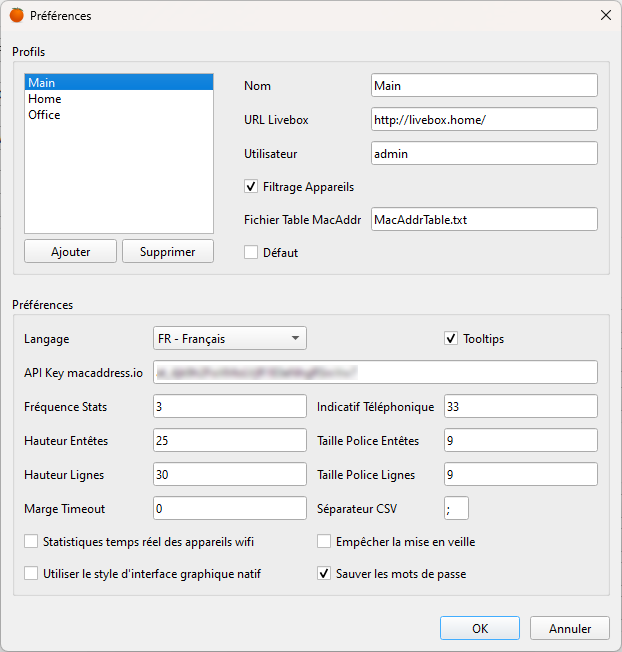
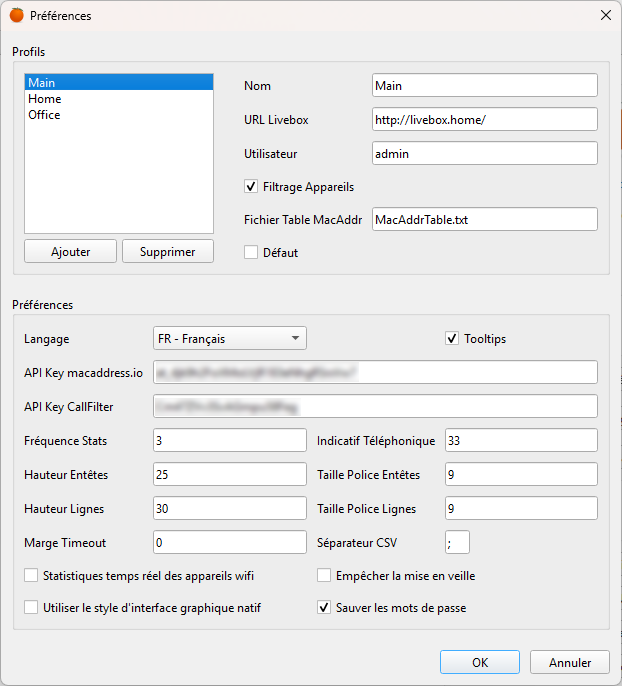
Spam phone calls management documentation

diff --git a/README.md b/README.md
@@ -198,14 +198,14 @@ Le programme créé automatiquement dans son répertoire de configuration deux f
 
 ### Le fichier Config.txt
 
-Ce fichier est géré automatiquement par l'application et il ne devrait pas être nécessaire de l'éditer. Les réglages principaux se font via le bouton `Préférences...` de l'onglet `Actions`.  
+Ce fichier JSON est géré automatiquement par l'application et il ne devrait pas être nécessaire de l'éditer. Les réglages principaux se font via le bouton `Préférences...` de l'onglet `Actions`.  
 À savoir :  
 - Les mots de passe y sont stockés cryptés grace à la clef de chiffrement du fichier `Key.txt`.
 - La clef `Repeaters` est générée automatiquement par le programme si des mots de passe différents sont utilisés pour le ou les répéteurs Wifi Orange connectés. La structure de ce paramètre est aussi au format JSON, utilise pour clef les adresses MAC des répéteurs, et référence pour chaque répéteur les valeurs 'User' & 'Password'.
 
 ### Le fichier MacAddrTable.txt
 
-Ce fichier est géré automatiquement par l'application et il ne devrait pas être nécessaire de l'éditer.
+Ce fichier JSON est géré automatiquement par l'application et il ne devrait pas être nécessaire de l'éditer.
 Les clefs correspondent aux adresses MAC des appareils et les valeurs au nom attribué.
 Tout appareil détecté dont l'adresse MAC n'est pas répertoriée sera affiché comme 'INCONNU' en rouge. Cette fonctionnalité est surtout utile pour détecter les nouveaux appareils ou des tentatives d'intrusions.
 
@@ -213,6 +213,11 @@ Pourquoi utiliser une base de noms locale alors que la Livebox stocke aussi des 
 - Parce que la Livebox "oublie" tout appareil qui ne s'est pas connecté depuis plus d'un mois.
 - Parce que parfois la Livebox perd des noms de façon impromptue pour certains appareils. C'est le cas par exemple pour le nom des répéteurs Wifi.  
 Un fichier de noms local offre la garantie de savoir si un appareil est vraiment inconnu.
+
+### Le fichier SpamCalls.txt
+
+Ce fichier JSON est géré automatiquement par l'application et il ne devrait pas être nécessaire de l'éditer.
+Il contient tous les numéros de téléphone au format international identifiés comme indésirables. Les appels provenants de ces numéros sont automatiquement marqués comme "spam" dans l'onglet `Téléphone`.
 
 
 ## Linux <a id="linux"></a>
@@ -518,7 +523,7 @@ La liste des appels téléphoniques, sur la gauche, affiche les colonnes suivant
     - ![Icone](http://p-dor.github.io/LiveboxMonitor/docs/png/Doc_Icon_Call_Out_Failed.png) : appel émis mais non abouti.
 - **Heure** : date et heure de l'appel.
 - **Numéro** : numéro de téléphone concerné.
-- **Contact** : le nom du contact déterminé par la Livebox en fonction de la liste des contacts au moment de l'appel. Si la Livebox n'a mémorisé aucun nom, alors le programme essai d'en trouver un dynamiquement à partir de la liste des contacts enregistrés par correspondance avec le numéro de téléphone.
+- **Contact** : le nom du contact déterminé par la Livebox en fonction de la liste des contacts au moment de l'appel. Si la Livebox n'a mémorisé aucun nom, alors le programme essai d'en trouver un dynamiquement à partir de la liste des contacts enregistrés par correspondance avec le numéro de téléphone. Si un numéro de téléphone indésirable a été mémorisé (voir fichier "SpamCalls.txt") il est automatiquement indiqué comme "# SPAM #".
 - **Durée** : durée de l'appel.
 
 Un **double clic** sur un appel permet de facilement créer ou éditer le contact correspondant.
@@ -526,9 +531,13 @@ Un **double clic** sur un appel permet de facilement créer ou éditer le contac
 ### Boutons
 Les boutons suivants sont proposés pour gérer la liste des appels :
 - **`Rafraîchir`** : rafraîchit la liste des appels.
-- **`Spam`** : ouvre un site web ([numeroinconnu.fr](https://www.numeroinconnu.fr/)) sur votre navigateur permettant de vérifier l'origine de l'appel sélectionné.
 - **`Supprimer`** : supprime l'appel sélectionné.
 - **`Tout Supprimer...`** : supprime tous les appels.
+- **`Scanner spams`** : analyse tous les appels entrants non identifiés et vérifie, via l'API du site [callfilter.app](https://callfilter.app/), si le numéro est indésirable ou non (démarchages, fraudes, etc). Tous les spams identifiés sont marqués comme "# SPAM #" et le programme les mémorise dans le fichier "SpamCalls.txt" stocké dans [le répertoire de configuration du programme](#configuration). Ce fichier JSON peut être facilement modifié manuellement (ne pas le faire lorsque le programme est en cours d’exécution). Pour pouvoir utiliser cette fonctionnalité une API Key Call Filter doit être configurée dans les préférences. Pour demander une API Key (service gratuit pour 15 requêtes par minute maximum), vous devez envoyer un email en anglais à info@callfilter.app en précisant :
+    - Les tâches pour lesquelles vous prévoyez d'utiliser l'API.
+    - Le nombre de requêtes par jour (minute, heure) que vous prévoyez d'effectuer.
+- **`Sites spam`** : ouvre deux sites webs ([numeroinconnu.fr](https://www.numeroinconnu.fr/) et [callfilter.app](https://callfilter.app/)) sur votre navigateur permettant de vérifier l'origine de l'appel sélectionné.
+- **`Marquer/Retirer spam`** : permet de marquer ou de démarquer manuellement un appel entrant comme étant indésirable. Cette action est également enregistrée dans le fichier local "SpamCalls.txt".
 
 ### Contacts
 La liste des contacts, sur la droite, affiche les colonnes suivantes :
@@ -627,6 +636,7 @@ Les actions concernant les **Réglages** :
     - `Tooltips` : active ou non les tooltips.
     - `Fréquence Stats` : Fréquence de rafraîchissement, en secondes, de toutes les statistiques. Par défaut 3 secondes.
     - `API Key macaddress.io` : le programme utilise l'API du site [macaddress.io](https://macaddress.io/) pour déterminer le fabricant d'un appareil à partir de son adresse MAC (champ **Fabricant** dans les informations détaillées par appareil). C'est un service gratuit, mais il faut créer un compte et indiquer ici l'API Key correspondante pour bénéficier de cette fonctionnalité.
+    - `API Key CallFilter` : le programme utilise d'API du site [callfilter.app](https://callfilter.app/) pour identifier les appels téléphoniques indésirables (onglet `Téléphone`). Pour obtenir une API Key (service gratuit pour 15 requêtes par minute maximum), vous devez envoyer votre demande par email, en anglais, à info@callfilter.app.
     - `Indicatif Téléphonique` : indicatif téléphonique local, utile pour faire correspondre les appels téléphoniques avec les numéros de contacts. Par défaut le code de la France est utilisé, c'est-à-dire 33.
     - `Hauteur Entêtes` : hauteur en pixels des entêtes de liste, par défaut 25.
     - `Taille Police Entêtes` : taille de la police de caractères des entêtes de liste. Une valeur à zéro signifie d'utiliser la taille système. Par défaut ce paramètre est à zéro.
